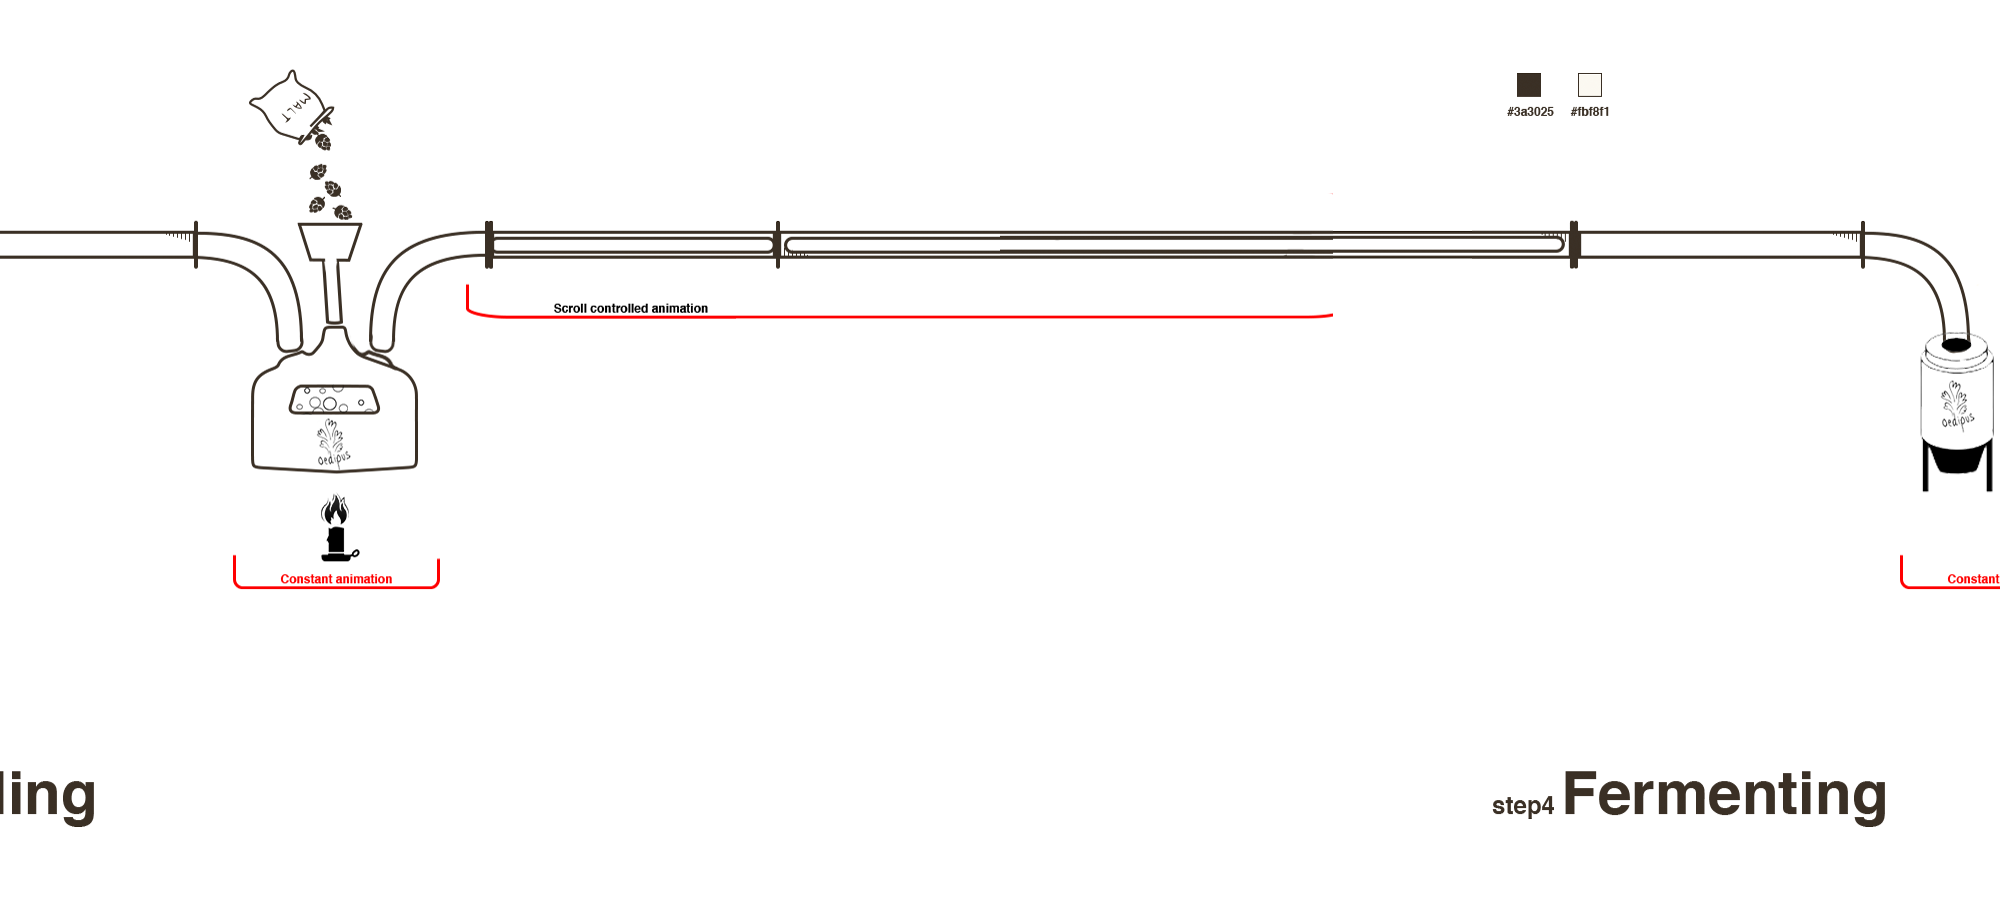
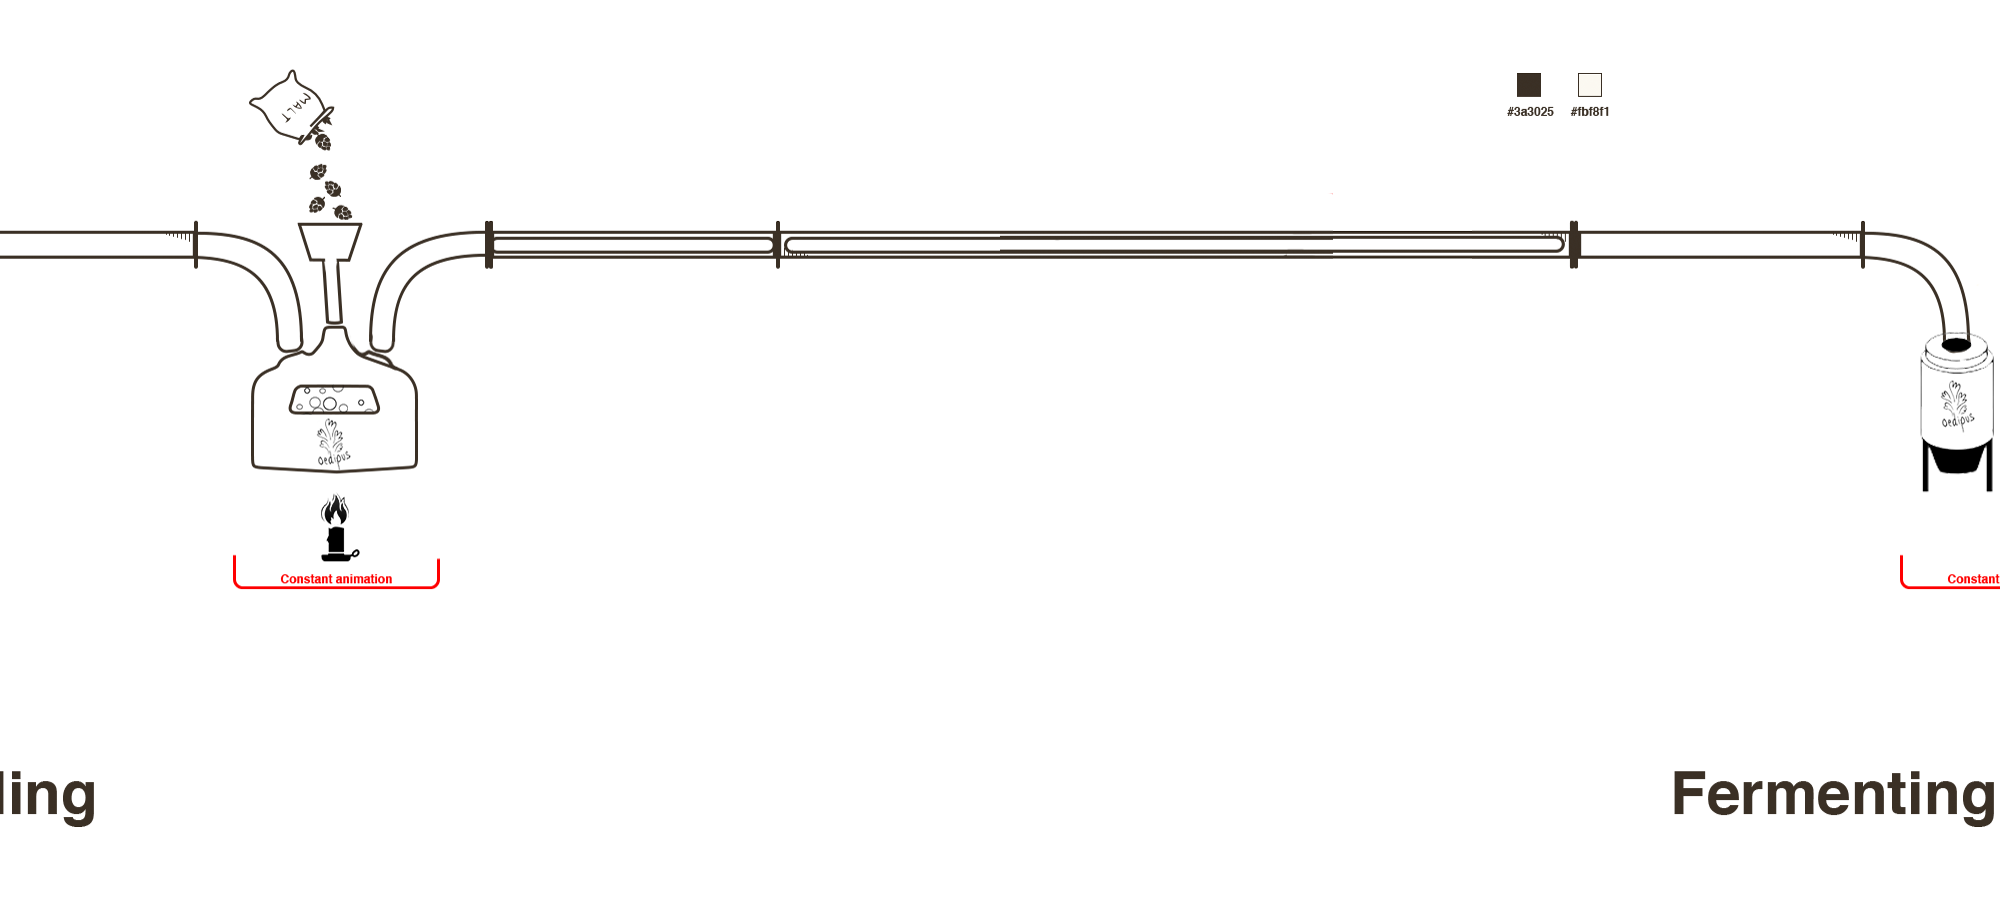
img changes

Changed region(s): [[0.744, 0.84, 1.0, 0.9333], [0.248, 0.3422, 0.651, 0.3733]]

diff --git a/animation/static/animation/js/main.js b/animation/static/animation/js/main.js
@@ -26,7 +26,7 @@ TweenMax.set($mouse, {transform: "translate3d(2010px, 175px, 0px)"});
 TweenMax.set($millmash, {transform: "translate3d(790px, 78px, 0px)"});
 TweenMax.set($fl, {transform: "translate3d(1507px, 400px, 0px)"});
 TweenMax.set($cooling, {transform: "translate3d(4780px, 50px, 0px)"});
-TweenMax.set($bottling, {transform: "translate3d(7220px, 50px, 0px)"});
+TweenMax.set($bottling, {transform: "translate3d(7220px, 0px, 0px)"});
 
 
 /* hinds & hanlers */

diff --git a/animation/static/animation/css/base.css b/animation/static/animation/css/base.css
@@ -362,9 +362,8 @@ h1 {
   width: 500px;
   height: 900px;
   pointer-events: none;
-  background: url(../images/desktop/cooling.png) center center no-repeat; }
+  background: url(../images/desktop/fg-bottling.png) center center no-repeat; }
   .c-bottling-container .e-label {
     position: absolute;
-    background-color: red;
     width: 100px;
     height: 100px; }

diff --git a/animation/static/animation/scss/components/_bottling.scss b/animation/static/animation/scss/components/_bottling.scss
@@ -5,11 +5,10 @@
   width: 500px;
   height: 900px;
   pointer-events: none;
-  background: url(../images/desktop/cooling.png) center center no-repeat;
+  background: url(../images/desktop/fg-bottling.png) center center no-repeat;
 
   .e-label {
     position: absolute;
-    background-color: red;
     width: 100px;
     height: 100px;
   }

diff --git a/animation/templates/animation/index.html b/animation/templates/animation/index.html
@@ -68,7 +68,7 @@
                     </div>
                 </figure>
 
-{#                <figure class="c-mouse right"></figure>#}
+                <figure class="c-mouse right"></figure>
 
                 <figure class="c-milling-mashing">
                     <div class="e-cloud">
